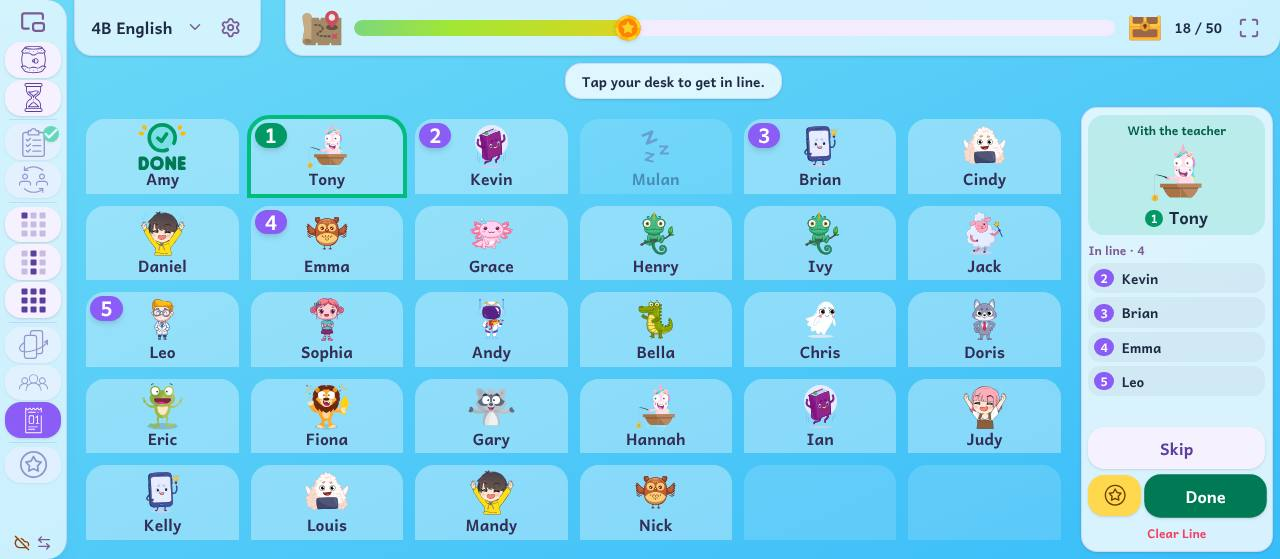
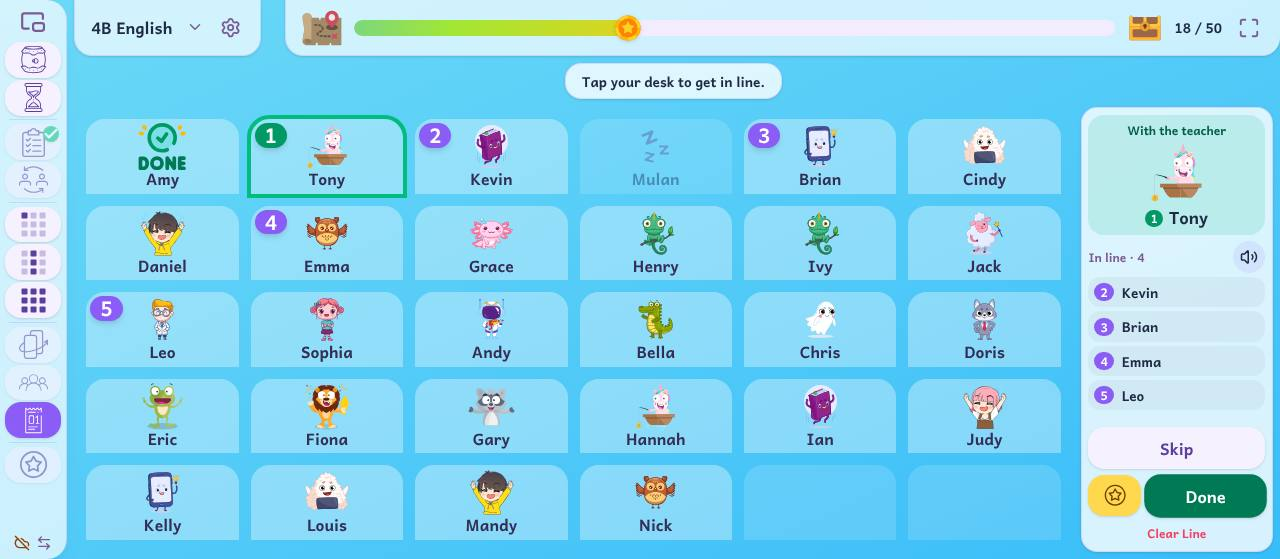
The Line's sounds go off from a speaker on its column, not a switch in Tools
A switch in Class Settings' Tools ran the section past the window's edge on small
screens (65px at 1024x500, 22px on the teacher's board): its two columns had no
room for another row. The speaker sits beside "In line" instead, as Get Ready!'s
does on "How long?", and is kept with the class. The tour has a stop for it, and
its pictures are taken again.

Claude-Session: https://claude.ai/code/session_01TiYZ2uAj6XdVjvg33BUoxY

Changed region(s): [[0.8438, 0.4258, 0.9062, 0.7299], [0.9688, 0.4562, 1.0, 0.4866]]

diff --git a/src/App.tsx b/src/App.tsx
@@ -70,21 +70,12 @@ import { type ClassData, type Student } from './types'
 
 const PANEL_SIDE_KEY = 'seating-chart-panel-side-v1'
 const GROUP_CHIMES_KEY = 'seating-chart-group-chimes-v1'
-const LINE_SOUNDS_KEY = 'seating-chart-line-sounds-v1'
 
 type PanelSide = 'left' | 'right'
 
 function loadGroupChimes(): boolean {
   try {
     return localStorage.getItem(GROUP_CHIMES_KEY) !== '0'
-  } catch {
-    return true
-  }
-}
-
-function loadLineSounds(): boolean {
-  try {
-    return localStorage.getItem(LINE_SOUNDS_KEY) !== '0'
   } catch {
     return true
   }
@@ -132,6 +123,7 @@ export default function App() {
     setChartPhotos,
     setGetReady,
     changeLine,
+    setLineSilent,
     setCelebrationGif,
     resetClassGoal,
     setClassPoints,
@@ -235,8 +227,6 @@ export default function App() {
   /** Students are at the board: only the status lights answer to a tap. Cleared by a new deal or a class switch. */
   const [groupsLocked, setGroupsLocked] = useState(false)
   const [groupChimes, setGroupChimes] = useState(loadGroupChimes)
-  /** The Line's sounds: the pop as a child joins, the "ding-dong" calling the next, and Done's run of notes. */
-  const [lineSounds, setLineSounds] = useState(loadLineSounds)
   /** The Line is up: a desk tap puts its student in line, and the column on the right holds the teacher's buttons. */
   const [lineOpen, setLineOpen] = useState(false)
   /** Whose "get out of line?" window is open. */
@@ -361,6 +351,11 @@ export default function App() {
   /** Today's line (lib/line), and each student's mark on their desk while the Line is up. */
   const line = useMemo(() => lineOf(activeClass, today), [activeClass, today])
   const lineMarks = useMemo(() => (lineOpen ? lineMarksOf(line) : undefined), [lineOpen, line])
+  /**
+   * The Line's sounds: the pop as a child joins, the "ding-dong" calling the next, and Done's run
+   * of notes. The speaker on its column turns them off for the class (lineSilent).
+   */
+  const lineSounds = activeClass?.lineSilent !== true
 
   /**
    * A pick started from the floating class goal runs on that window's clock, which stops for
@@ -497,11 +492,6 @@ export default function App() {
   function updateGroupChimes(on: boolean) {
     setGroupChimes(on)
     remember(GROUP_CHIMES_KEY, on ? '1' : '0')
-  }
-
-  function updateLineSounds(on: boolean) {
-    setLineSounds(on)
-    remember(LINE_SOUNDS_KEY, on ? '1' : '0')
   }
 
   function continueGroups() {
@@ -1246,6 +1236,8 @@ export default function App() {
                 onSkip={lineSkip}
                 onAskLeave={setLineLeaveFor}
                 onClear={() => setLineClearAsk(true)}
+                silent={!lineSounds}
+                onSetSilent={(silent) => setLineSilent(activeClass.id, silent)}
               />
             )}
           </div>
@@ -1486,8 +1478,6 @@ export default function App() {
           onUpdateFlip: deck.updateSettings,
           groupChimes,
           onSetGroupChimes: updateGroupChimes,
-          lineSounds,
-          onSetLineSounds: updateLineSounds,
         }}
         onToggleAbsentInRecord={(studentId, day) => toggleAbsentInRecord(activeClass.id, studentId, day)}
         onSetParticipation={(day, studentId, count) => setParticipation(activeClass.id, day, studentId, count)}

diff --git a/src/components/Line.tsx b/src/components/Line.tsx
@@ -2,6 +2,7 @@ import clsx from 'clsx'
 import { useLayoutEffect, useRef, useState, type MouseEvent, type ReactNode } from 'react'
 import { lineCount, type ClassLine } from '../lib/line'
 import type { Student } from '../types'
+import { SoundButton } from './GetReady'
 import { Modal } from './Modal'
 import { PointIcon, QueueIcon } from './RailIcons'
 import { StudentPicture } from './StudentPicture'
@@ -29,6 +30,9 @@ interface LinePanelProps {
   /** A name in the line was tapped: ask whether to take them out. */
   onAskLeave: (studentId: string) => void
   onClear: () => void
+  /** No sound for the Line, set by the speaker by "In line", as Get Ready!'s is on "How long?". */
+  silent: boolean
+  onSetSilent: (silent: boolean) => void
 }
 
 /**
@@ -39,7 +43,19 @@ interface LinePanelProps {
  * Line under them, which asks first. The list never scrolls: as many names as fit, then "+3 more", since every
  * child's number is on their own desk anyway.
  */
-export function LinePanel({ line, studentsById, homerooms, points, onStar, onDone, onSkip, onAskLeave, onClear }: LinePanelProps) {
+export function LinePanel({
+  line,
+  studentsById,
+  homerooms,
+  points,
+  onStar,
+  onDone,
+  onSkip,
+  onAskLeave,
+  onClear,
+  silent,
+  onSetSilent,
+}: LinePanelProps) {
   const now = line.now ? studentsById.get(line.now) : undefined
   const lastTap = useRef(0)
   const lastStar = useRef(0)
@@ -122,9 +138,14 @@ export function LinePanel({ line, studentsById, homerooms, points, onStar, onDon
 
       {/* The line, in order. A tap on a name asks whether to take them out. */}
       <section className="flex min-h-0 flex-1 flex-col gap-1">
-        <span className="shrink-0 font-bold text-muted-foreground" style={{ fontSize: 'clamp(0.75rem, 1.7vmin, 1rem)' }}>
-          In line{line.waiting.length > 0 ? ` · ${line.waiting.length}` : ''}
-        </span>
+        <div className="flex shrink-0 items-center justify-between gap-1">
+          <span className="font-bold text-muted-foreground" style={{ fontSize: 'clamp(0.75rem, 1.7vmin, 1rem)' }}>
+            In line{line.waiting.length > 0 ? ` · ${line.waiting.length}` : ''}
+          </span>
+          {/* No sound, for a quiet writing lesson: beside the list rather than a switch in Class
+              Settings, as Get Ready!'s speaker is on "How long?", and kept with the class. */}
+          <SoundButton silent={silent} onTap={() => onSetSilent(!silent)} className="!size-8 [&_svg]:!size-[18px]" />
+        </div>
         <div ref={listRef} className="relative flex min-h-0 flex-1 flex-col gap-1 overflow-hidden">
           {/* One row, unseen, to measure how tall a row is on this screen. */}
           <div ref={probeRef} aria-hidden className="invisible absolute inset-x-0 top-0">

diff --git a/src/components/settings/ToolsSection.tsx b/src/components/settings/ToolsSection.tsx
@@ -3,7 +3,7 @@ import type { FlipDeckSettings } from '../../hooks/useFlipDeck'
 import { GET_READY_PRIZES } from '../../lib/getReady'
 import type { PointsMode } from '../../types'
 import { PickStudentIcon } from '../PickerIcons'
-import { DrumIcon, FlipIcon, GroupIcon, QueueIcon } from '../RailIcons'
+import { DrumIcon, FlipIcon, GroupIcon } from '../RailIcons'
 import { Btn, SwitchRow } from './parts'
 
 export interface PickerSettingsValue {
@@ -26,14 +26,12 @@ interface ToolsSectionProps {
   onUpdateFlip: (patch: Partial<FlipDeckSettings>) => void
   groupChimes: boolean
   onSetGroupChimes: (on: boolean) => void
-  lineSounds: boolean
-  onSetLineSounds: (on: boolean) => void
 }
 
 /**
  * Every rail tool's settings in one place (2026-10-11, the teacher's menus): the pickers, Get
- * Ready!'s prize, the flip cards (whose gear opens this), Group Activity's chimes, which were
- * each tucked into their own window before, and the Line's sounds. Every switch says what is true in the state it's in.
+ * Ready!'s prize, the flip cards (whose gear opens this) and Group Activity's chimes, which were
+ * each tucked into their own window before. Every switch says what is true in the state it's in.
  */
 export function ToolsSection({
   pointsMode,
@@ -48,8 +46,6 @@ export function ToolsSection({
   onUpdateFlip,
   groupChimes,
   onSetGroupChimes,
-  lineSounds,
-  onSetLineSounds,
 }: ToolsSectionProps) {
   const gifts = pointsMode !== 'none'
   return (
@@ -173,19 +169,6 @@ export function ToolsSection({
               onText="On: a chime when a group taps Help, Ready or Done."
               offText="Off: the group cards change color with no sound."
               onChange={onSetGroupChimes}
-            />
-          </div>
-          <div className="cs-group cs-tool">
-            <div className="cs-tool-head">
-              <QueueIcon className="size-[22px]" /> Line
-            </div>
-            <SwitchRow
-              guide="line-sounds"
-              label="Line sounds"
-              on={lineSounds}
-              onText="On: a pop as a student gets in line, a ding-dong for the next one, and a cheer for Done."
-              offText="Off: the Line makes no sound."
-              onChange={onSetLineSounds}
             />
           </div>
         </div>

diff --git a/src/lib/tour.ts b/src/lib/tour.ts
@@ -131,6 +131,7 @@ export const TOUR: TourPart[] = [
       { shot: 'line', at: 'number', text: 'Their place in line shows on their desk, so they can see it from their seat.' },
       { shot: 'line', at: 'now', text: 'Who is with you, big for the class. They are number 1 until you finish with them.' },
       { shot: 'line', at: 'list', text: 'Who is waiting, in order. Tap a name to send that student back to their seat.' },
+      { shot: 'line', at: 'sound', text: 'No sound, for a quiet room.' },
       { shot: 'line', at: 'skip', text: 'Skip sends the student with you to the back of the line.' },
       { shot: 'line', at: 'star', text: 'A star for the student with you.' },
       { shot: 'line', at: 'done', text: 'Done: their work is finished. The next student is called with a ding-dong.' },

diff --git a/src/hooks/useClasses.ts b/src/hooks/useClasses.ts
@@ -592,6 +592,11 @@ export function useClasses() {
     [updateClass],
   )
 
+  const setLineSilent = useCallback(
+    (classId: string, silent: boolean) => updateClass(classId, (c) => ({ ...c, lineSilent: silent })),
+    [updateClass],
+  )
+
   const setGetReady = useCallback(
     (classId: string, patch: Partial<Pick<ClassData, 'getReadyPrize' | 'getReadyDrum' | 'getReadySilent'>>) =>
       updateClass(classId, (c) => ({ ...c, ...patch })),
@@ -766,6 +771,7 @@ export function useClasses() {
     setChartPhotos,
     setGetReady,
     changeLine,
+    setLineSilent,
     setCelebrationGif,
     resetClassGoal,
     setClassPoints,

diff --git a/src/lib/setupGuide.ts b/src/lib/setupGuide.ts
@@ -196,11 +196,6 @@ export const GUIDE_STEPS: GuideStep[] = [
     targets: [g('chimes')],
     text: 'A chime when a group taps Help, Ready or Done, so you hear it with your back to the board.',
   },
-  {
-    section: 'tools',
-    targets: [g('line-sounds')],
-    text: 'The Line’s sounds: a pop as a student gets in line, a ding-dong for the next one, and a cheer for Done.',
-  },
 
   { section: 'attendance', targets: ['.cs-list'], text: 'Add students first, in Students.', when: (ctx) => !hasStudents(ctx) },
   { section: 'attendance', targets: [g('month-nav')], text: 'Tap the arrows to see another month.', when: hasStudents },

diff --git a/src/types.ts b/src/types.ts
@@ -219,6 +219,11 @@ export interface ClassData {
    * new day an empty line.
    */
   line?: { day: string; now: string | null; waiting: string[]; done?: string[] }
+  /**
+   * The Line with no sound (the speaker on its column, as Get Ready!'s is on "How long?"): a quiet
+   * writing lesson. Kept until it is tapped back on. Unset is sound on.
+   */
+  lineSilent?: boolean
   // groupPointsMode, where a group's points went (each student or the class goal), is no
   // longer read: group points always go onto the class goal. Older saves may still carry it.
 }

diff --git a/src/components/ClassSettingsModal.tsx b/src/components/ClassSettingsModal.tsx
@@ -77,8 +77,6 @@ export interface ToolsProps {
   onUpdateFlip: (patch: Partial<FlipDeckSettings>) => void
   groupChimes: boolean
   onSetGroupChimes: (on: boolean) => void
-  lineSounds: boolean
-  onSetLineSounds: (on: boolean) => void
 }
 
 interface ClassSettingsModalProps {

diff --git a/DECISIONS.md b/DECISIONS.md
@@ -198,7 +198,7 @@ Built or tried, and moved here from Next up (2026-10-12) so that Next up is only
   - **Checked**: `scripts/drive-check.mjs` ("photos", 15 checks against its stand-in for Google, which takes a JPEG only for a photo): the caution; the names offered and a file named for a student; Check for a picture with no face; the folders and labels; only small squares going up; the ids on the right students; another computer, with no pass in hand, bringing them down at the class tap and keeping them through a reload with no download; Switch Teacher leaving none; a replaced photo, Remove All and a deleted class all in the bin. `scripts/walkthrough.mjs` ("student photos", 15 checks): the caution once, Not now, the naming and its guesses, Back, saving with no way to Google, every step of Add Photos fitting every screen in two themes, the photos on the desks, the roster and the picker, and Characters keeping every photo; its "nothing scrolls" also checks Avatars with photos on and the caution in every theme at every size.
 - **Bulk avatar assignment**: Give the class a character, in Class Settings' Avatars section (2026-10-11; it was the Student Avatars window; no No Avatar in it: that is the switch, or one student's own picker). Scope (everyone / boys / girls) × poses (mixed / same for all), then one tap applies; tapping the same character again re-rolls. Immediate rather than a confirm step — the undo is tapping something else.
 - **Choose Your Avatar** (2026-10-05, from lesson one: the children asked to choose their own). **Let Students Choose** (it was Students Choose), in Class Settings' Avatars section, closes the window and puts a bar over the board, "Tap your desk. Choose your avatar!", with **Done** for the teacher. The children come up one at a time and tap their own desk: a big window, "Kevin, choose your avatar!", shows the twenty characters as big pictures with no words to read; a tap on one shows its poses ("Choose one!", with Back), and a tap on a pose puts it on the desk and closes. Two steps rather than every pose at once, because a young reader follows one choice at a time; the poses are the friendly ones (not the sleeping pose, nothing glum). **The board's second touch is kept out at each step**: the pictures ignore taps for 0.7 s after a step appears, and the desks for 0.7 s after the window closes, so the tap that chose doesn't open it again. Tapping outside closes it with nothing changed. An absent student's desk does nothing: they can choose another day. While it is on the side panel stands down, as for Swap Seats and Attendance (and so do Get Ready!, the class switcher and the float's Pick); only Done ends it, nothing on a timer. Not offered while the class's avatars are off (they would choose and see nothing) or during a group activity (the cards cover the desks); the flip cards, a pick and a selection are cleared as it starts. The choice is the student's own avatar, so it syncs, and the teacher can still change it from the roster.
-- **The guide through Class Settings** (2026-10-11, the teacher, in the menus' preview: tell the teacher what to do one thing at a time, everything else faded and not usable until Next or Skip; it replaced the guided first setup of 2026-10-06, whose seven steps each lit a whole tab's worth and moved on by themselves). **One thing lit at a time**, ringed in amber, the rest of the window faded and closed to taps; a bubble beside it says what to do in a sentence, with where it is ("Students · 2 of 6"), **Skip** and **Next** - both move on, Next because it's done and Skip to leave it as it is - **Back**, and **Stop guide**. **Back** (2026-10-12, the teacher: a step read too fast had no way back) goes to the step before that applies, into the section before when a new class's walk is at a section's first step, and is greyed on the very first. The lit thing is used as it is: tapping Import opens its menu, which is lit with it, and the bubble then says to pick where the list comes from; Add a Student's row the same. Nothing moves on by itself, and a window opened over it (the pasted list, a question) puts it aside until that closes. **Two ways** (the teacher: it should start for whichever menu is open, not go back to the class name): Help's **Guide me through this section** walks the section that is open, Next becoming **Finish** on its last step; and **a new class walks the whole setup**, Class to Points, the window moving to each section by itself, and ends on Done with "You're all set! Want a tour of the app?" (**Not now** / **Show me**). New Class, from the class list or the splash, starts it every time; so does a brand-new teacher's first sign-in on a fresh board, unless they finished or stopped it on that board before (`seating-chart-guide-v1`, per teacher). **Every section has its steps**: Class 7 (the name, with the cursor already in the box; the classroom number; the desk layout; the homeroom switch; the theme; and Delete Class and New Class when guiding Class alone), Students 7 (the list, or how to paste one in; Import; Add a Student; Seat Students; Mix Up Seats; Unseat All; and Remove All when guiding Students alone), Avatars 3 (what the desks show; then Add Photos with photos, or a character for the class and Let Students Choose with characters), Points by the choice made (with a class goal the stars, the goal, the celebration and fixing the meter; with student points Clear All Stars), Tools 9 (the Line's sounds joined it, 2026-10-15), Attendance 4, Participation 6 (Update in Drive and Export joined it, 2026-10-12) and Google 3. A step that doesn't apply is passed by (a character for the class with avatars off), and "2 of 5" counts the steps a choice still ahead may bring. **The bubble stays inside the window**: under the lit thing, or over it, or beside it, or wherever covers least of a tall list. **It is a soft sky blue, the same in every theme, with navy words and a blue Next** (2026-10-06, the teacher's idea): the windows are white, so a white bubble read as one more place to do something; a full-strength blue bubble was too loud on the board, so the strong blue is only on Next. Checked in every section and the whole new-class walk at 1024x500, the teacher's board and 1920x1080 (the walkthrough's "guide"). `lib/setupGuide.ts` has the steps, `components/SetupGuide.tsx` draws them.
+- **The guide through Class Settings** (2026-10-11, the teacher, in the menus' preview: tell the teacher what to do one thing at a time, everything else faded and not usable until Next or Skip; it replaced the guided first setup of 2026-10-06, whose seven steps each lit a whole tab's worth and moved on by themselves). **One thing lit at a time**, ringed in amber, the rest of the window faded and closed to taps; a bubble beside it says what to do in a sentence, with where it is ("Students · 2 of 6"), **Skip** and **Next** - both move on, Next because it's done and Skip to leave it as it is - **Back**, and **Stop guide**. **Back** (2026-10-12, the teacher: a step read too fast had no way back) goes to the step before that applies, into the section before when a new class's walk is at a section's first step, and is greyed on the very first. The lit thing is used as it is: tapping Import opens its menu, which is lit with it, and the bubble then says to pick where the list comes from; Add a Student's row the same. Nothing moves on by itself, and a window opened over it (the pasted list, a question) puts it aside until that closes. **Two ways** (the teacher: it should start for whichever menu is open, not go back to the class name): Help's **Guide me through this section** walks the section that is open, Next becoming **Finish** on its last step; and **a new class walks the whole setup**, Class to Points, the window moving to each section by itself, and ends on Done with "You're all set! Want a tour of the app?" (**Not now** / **Show me**). New Class, from the class list or the splash, starts it every time; so does a brand-new teacher's first sign-in on a fresh board, unless they finished or stopped it on that board before (`seating-chart-guide-v1`, per teacher). **Every section has its steps**: Class 7 (the name, with the cursor already in the box; the classroom number; the desk layout; the homeroom switch; the theme; and Delete Class and New Class when guiding Class alone), Students 7 (the list, or how to paste one in; Import; Add a Student; Seat Students; Mix Up Seats; Unseat All; and Remove All when guiding Students alone), Avatars 3 (what the desks show; then Add Photos with photos, or a character for the class and Let Students Choose with characters), Points by the choice made (with a class goal the stars, the goal, the celebration and fixing the meter; with student points Clear All Stars), Tools 8, Attendance 4, Participation 6 (Update in Drive and Export joined it, 2026-10-12) and Google 3. A step that doesn't apply is passed by (a character for the class with avatars off), and "2 of 5" counts the steps a choice still ahead may bring. **The bubble stays inside the window**: under the lit thing, or over it, or beside it, or wherever covers least of a tall list. **It is a soft sky blue, the same in every theme, with navy words and a blue Next** (2026-10-06, the teacher's idea): the windows are white, so a white bubble read as one more place to do something; a full-strength blue bubble was too loud on the board, so the strong blue is only on Next. Checked in every section and the whole new-class walk at 1024x500, the teacher's board and 1920x1080 (the walkthrough's "guide"). `lib/setupGuide.ts` has the steps, `components/SetupGuide.tsx` draws them.
 - **The tour of the app** (2026-10-11, the teacher: a tour of every feature, but not a button always on screen - inside Class Settings, pausing between screens to say what comes next and asking whether to go on; tried first as a demo in the menus' preview). **Help**, in Class Settings' title bar, has two choices: Guide me through this section, and **Take a tour of the app**; a new class's guide also offers it at the end. **Seven parts, one a screen**: the board (every rail button, a desk, the goal meter and its chest, the class name and gear, the Saved mark, Full Screen and the side arrows), Flip Cards, Group Activity, the Line (since 2026-10-15), the timer, Get Ready! and the floating class goal. A first card lists them ("You can stop after any part"). **Each stop lights one thing** in a picture of that screen, with a bubble saying what it does in a sentence, where it is ("Flip Cards · 2 of 9"), **Back**, **Next** and **Stop tour**; **between parts a card** says what comes next ("Next, part 2 of 6: Flip Cards"), with **Back**, **Skip this part** and **Keep going**, and **Stop tour** at its top, where the bubble has it (2026-10-12, the teacher: the card had no way back; it was Stop here among the buttons, which left no room for a fourth). Back on the card goes to the last stop of the part before, and the last card ("That's the tour!") has Back too. **Stopped partway**, the next tour asks whether to start where it left off or from the beginning (`seating-chart-tour-v1`). **It only shows**: the pictures are of the real app at the teacher's board size, so nothing is picked, no stars are given, no sound plays and the board underneath is untouched. `scripts/tour-shots.mjs` takes them (into `public/tour/`, with where each thing is in `lib/tourRects.json`), and they are fetched only when the tour opens; **they need taking again whenever one of those screens changes**. **The floating class goal is drawn**, over a pretend lesson slide ("Unit 5: Animals", page 134), since a picture of the board can't show a window over the lesson; Float's stop on the board carries a small example of it in its bubble, with the teacher's own line: "Float shrinks the app down to a small tool that floats over the screen, letting you teach your lesson and still pick random students, award stars, and more without getting in the way!" Checked through every stop at 1024x500, 1280x559, 1366x620 and 1920x1080: the bubble always on the screen, never over the lit thing. `lib/tour.ts` has the parts and their words, `components/Tour.tsx` draws them. **It is offered once, above the desks** (2026-10-14: other teachers are trying the app, the rail has no words, and the tour was two taps deep in Class Settings' Help): "New here? Take a tour of the app." with **Take the tour** and ✕ (No thanks), in the line above the desks, on a board where no tour was ever started (`seating-chart-tour-v1`) and while nothing else is there (Seat Class, a mode's line, the flip cards, a group activity). Either button puts it away for good on that board (`seating-chart-tour-offer-v1`); nothing takes it away on a timer.
 - **Setting up a class quickly** (2026-10-05, from lesson one; Done from Next up has the story). **Paste a list**: a list copied from Excel or a Google Sheet comes in with no file saved. Ctrl+V anywhere on the Students tab opens **Paste Your Student List** with it, and Import's first choice, **Paste a list**, opens the same window empty, with a **Paste** button for a board with no keyboard (the browser asks once whether the app may read what was copied; if not, the window says to tap in the box and press Ctrl+V). The window shows the students it found before they are added, so a paste of the wrong thing never fills the class with nonsense, then **Add 28 Students** brings them in - skipping anyone already in the class, as every import does - and the roster says what happened ("Added 28 students."). **The app works out the columns** (`lib/csv.ts`): a heading row is read by its words (Name, English Name, Student; Homeroom, Class, Room, 班; Boy or Girl, Gender, Sex, 性別) and skipped, and a list with no heading by what is in it - words are names, short numbers are homerooms, boy/girl/M/F/男/女 is gender - so the columns can come in any order, with others beside them. Tabs (Excel and Sheets), commas (a CSV's text) and one name a line all work. **Excel files as they are**: the file window shows Excel files as well as CSV (it showed only CSV, so Windows hid the teacher's file), and an .xlsx goes through the same column finding. It is read in the browser with no spreadsheet library - an .xlsx is a zip of XML (`lib/xlsx.ts`) - loaded only when a file is chosen. The old .xls isn't read: choosing one says to save it as .xlsx or paste the names, and a file that can't be read says to paste instead. **An empty class says how**, where the roster will be: "Copy your student list from Excel and paste it here.", with **Paste a List** and **Choose a File**, and a line that Boy or Girl can wait and a student who joins later is added above. Import is now the same short menu signed in or out; signed out it used to be Import CSV alone. **Tested** with lists as Excel and Sheets copy them, with Excel files made by a spreadsheet library (a heading row; no heading, starting at B3, with 男/女), an old .xls and a broken file, at 1024x500 up (`scripts/walkthrough.mjs`, "excel and a pasted list", with `scripts/fixtures/roster.xlsx`).
 - **Typeface**: Andika, app-wide. Chosen for its single-storey lowercase `a`, which is how the students are taught to write it; Comic Sans was rejected. Lexend was a close second. `lib/fitText.ts` measures in Andika because it picks one name size for a whole class — measuring in the wrong face would size every desk wrong.
@@ -223,7 +223,7 @@ Built or tried, and moved here from Next up (2026-10-12) so that Next up is only
   - **Settings and Swap Seats stand down during a group activity.** Both rearrange the class underneath a running activity, and Swap Seats acts on desks that are behind the cards. Swap Seats is out whenever the cards are up, flip cards included (2026-10-03: it acts on the desks, so it is only for the seating chart); Settings goes out when the board is locked, which is when students are the ones standing at it.
   - **Lock** is for students coming up to the board. It freezes what would destroy work: moving a name, New Groups, Shuffle, Exit and the side panel's button. **Points and status stay live**, because awarding a point for being on task mid activity is normal and unlocking to do it would be backwards. It is a courtesy lock, not a PIN.
 
-- **The Line: a doctor's office for checking work** (2026-10-15, the teacher, from his writing class, where students finish a step of independent work and need it checked, and he doesn't want a crowd at his desk; tried as a preview, "Line Preview", and live the same day: "almost perfect"). **For any assignment, not only writing** (his call: the five writing steps would make it his tool only), so it says nothing about what the work is, and **asks no reason** for being in line: one tap, as a point needs none. **Line** on the rail, after Group Activity, with the teacher's own icon (a numbered ticket, Flaticon, its extra outline taken off so it weighs what the other icons do; children know a take-a-number ticket from the bank or a clinic). **Children**: "Tap your desk to get in line." above the desks; one tap on their own desk puts their place in line on it, big enough to read from their seat and counting down as the line moves, and their name in the line, with a soft pop; into an empty line they go straight to the teacher. **The one with the teacher is number 1 and keeps it** (the teacher's change after the preview) until Done, Skip or back to their seat, ringed in green; the next is 2. A tap on their desk again (or the wrong desk) asks "Kevin, get out of line?" (**Get out** / **Stay in line**, both waiting 0.7 s, a tap outside meaning stay); the board's second touch on a desk that just joined asks nothing, and nor does a desk tapped as the window closes. Absent students can't join. **The column, on the right of the desks whichever side the rail is on** (he sits with the board behind him, at its right, and needs his buttons without standing): **With the teacher**, the picture, the 1 and the name big for the class; **In line**, the names in order with the desks' numbers, as many as fit and then "+3 more" (it never scrolls; every number is on its desk); and at the bottom, where a seated hand lands, **Skip** (to the back of the line: whether they weren't ready or have something to fix, it gives them time, and children know the rule), **★** and **Done**, and **Clear Line** under them, which asks first. Done and Skip ignore a second touch for 0.7 s, or one touch would finish two students. **Done means the work is finished** (the teacher's change after the preview): **the teacher's Done picture** (a tick in a circle with sparks, and DONE) takes the place of the student's avatar or photo, or sits above the name on a desk with no picture, coloured green with gold sparks over a faint green disc (lighter in Dark and Chalkboard); **a small celebration at their desk**, eight little gold stars bursting out and the picture popping in, with a quick bright run of notes, small beside the class goal's; and the next one called with a soft "ding-dong" and their desk ringed in green, swelling three times and then still. A Done desk tapped again joins the line with the next piece of work, and Done gives way to the number. Skip and Get out are never done. **Seat went**: a tap on a name in the line asks the same "get out of line?". **Points while it is open** (his ask): the column's ★ gives the student with him a star, in every way of running points (none with No Points), and in the participation record; the rail's star, Pick All and the pickers still work; only a desk tapped by hand can't be picked for a point, since that tap is how children get in line, so to star one child at their desk the teacher closes the line a moment, which loses nobody's place. **Kept with the class** (`line`: who is with the teacher, who waits, who is done; `lib/line.ts`), so a refresh keeps it and a second screen shows it; **tomorrow starts empty** (a date, not a timer); **Clear Line** empties it and takes the Done marks off, for the next activity; closed, the rail's button shows how many are still in line, and the desks show nothing of it. While it is open Swap Seats, Attendance, Flip Cards and Group Activity wait. The desks are about a sixth narrower while it is open (186px to 152px on his board). **Line sounds** is a switch in Class Settings' Tools (the pop, the ding-dong and Done's notes, all above 400Hz), with its step in the guide; the tour has the Line's button on the board and a part of its own. Checked at every size from 1024x500 to 2560x1300, the rail on either side and every theme, with nothing scrolling (the walkthrough's "the line" and "nothing scrolls").
+- **The Line: a doctor's office for checking work** (2026-10-15, the teacher, from his writing class, where students finish a step of independent work and need it checked, and he doesn't want a crowd at his desk; tried as a preview, "Line Preview", and live the same day: "almost perfect"). **For any assignment, not only writing** (his call: the five writing steps would make it his tool only), so it says nothing about what the work is, and **asks no reason** for being in line: one tap, as a point needs none. **Line** on the rail, after Group Activity, with the teacher's own icon (a numbered ticket, Flaticon, its extra outline taken off so it weighs what the other icons do; children know a take-a-number ticket from the bank or a clinic). **Children**: "Tap your desk to get in line." above the desks; one tap on their own desk puts their place in line on it, big enough to read from their seat and counting down as the line moves, and their name in the line, with a soft pop; into an empty line they go straight to the teacher. **The one with the teacher is number 1 and keeps it** (the teacher's change after the preview) until Done, Skip or back to their seat, ringed in green; the next is 2. A tap on their desk again (or the wrong desk) asks "Kevin, get out of line?" (**Get out** / **Stay in line**, both waiting 0.7 s, a tap outside meaning stay); the board's second touch on a desk that just joined asks nothing, and nor does a desk tapped as the window closes. Absent students can't join. **The column, on the right of the desks whichever side the rail is on** (he sits with the board behind him, at its right, and needs his buttons without standing): **With the teacher**, the picture, the 1 and the name big for the class; **In line**, the names in order with the desks' numbers, as many as fit and then "+3 more" (it never scrolls; every number is on its desk); and at the bottom, where a seated hand lands, **Skip** (to the back of the line: whether they weren't ready or have something to fix, it gives them time, and children know the rule), **★** and **Done**, and **Clear Line** under them, which asks first. Done and Skip ignore a second touch for 0.7 s, or one touch would finish two students. **Done means the work is finished** (the teacher's change after the preview): **the teacher's Done picture** (a tick in a circle with sparks, and DONE) takes the place of the student's avatar or photo, or sits above the name on a desk with no picture, coloured green with gold sparks over a faint green disc (lighter in Dark and Chalkboard); **a small celebration at their desk**, eight little gold stars bursting out and the picture popping in, with a quick bright run of notes, small beside the class goal's; and the next one called with a soft "ding-dong" and their desk ringed in green, swelling three times and then still. A Done desk tapped again joins the line with the next piece of work, and Done gives way to the number. Skip and Get out are never done. **Seat went**: a tap on a name in the line asks the same "get out of line?". **Points while it is open** (his ask): the column's ★ gives the student with him a star, in every way of running points (none with No Points), and in the participation record; the rail's star, Pick All and the pickers still work; only a desk tapped by hand can't be picked for a point, since that tap is how children get in line, so to star one child at their desk the teacher closes the line a moment, which loses nobody's place. **Kept with the class** (`line`: who is with the teacher, who waits, who is done; `lib/line.ts`), so a refresh keeps it and a second screen shows it; **tomorrow starts empty** (a date, not a timer); **Clear Line** empties it and takes the Done marks off, for the next activity; closed, the rail's button shows how many are still in line, and the desks show nothing of it. While it is open Swap Seats, Attendance, Flip Cards and Group Activity wait. The desks are about a sixth narrower while it is open (186px to 152px on his board). **A speaker beside "In line" turns its sounds off** (the pop, the ding-dong and Done's notes, all above 400Hz) for a quiet writing lesson, kept with the class (`lineSilent`) until tapped back on, as Get Ready!'s speaker on "How long?" is: a switch in Class Settings' Tools was tried first and ran Tools past the window's edge at 1024x500 and on his board, whose two columns had no room for another row. The tour has the Line's button on the board and a part of its own. Checked at every size from 1024x500 to 2560x1300, the rail on either side and every theme, with nothing scrolling (the walkthrough's "the line" and "nothing scrolls").
 - **Deployment**: pushes to `main` auto-deploy to https://a102032.github.io/seating/. The workflow curls the published URL afterwards and fails if it isn't serving the built bundle — Pages served the repo's raw `index.html` for several runs while every step reported green. `build-artifact.py` bundles a standalone copy for the Claude artifact preview.
 
 ## Known loose ends
